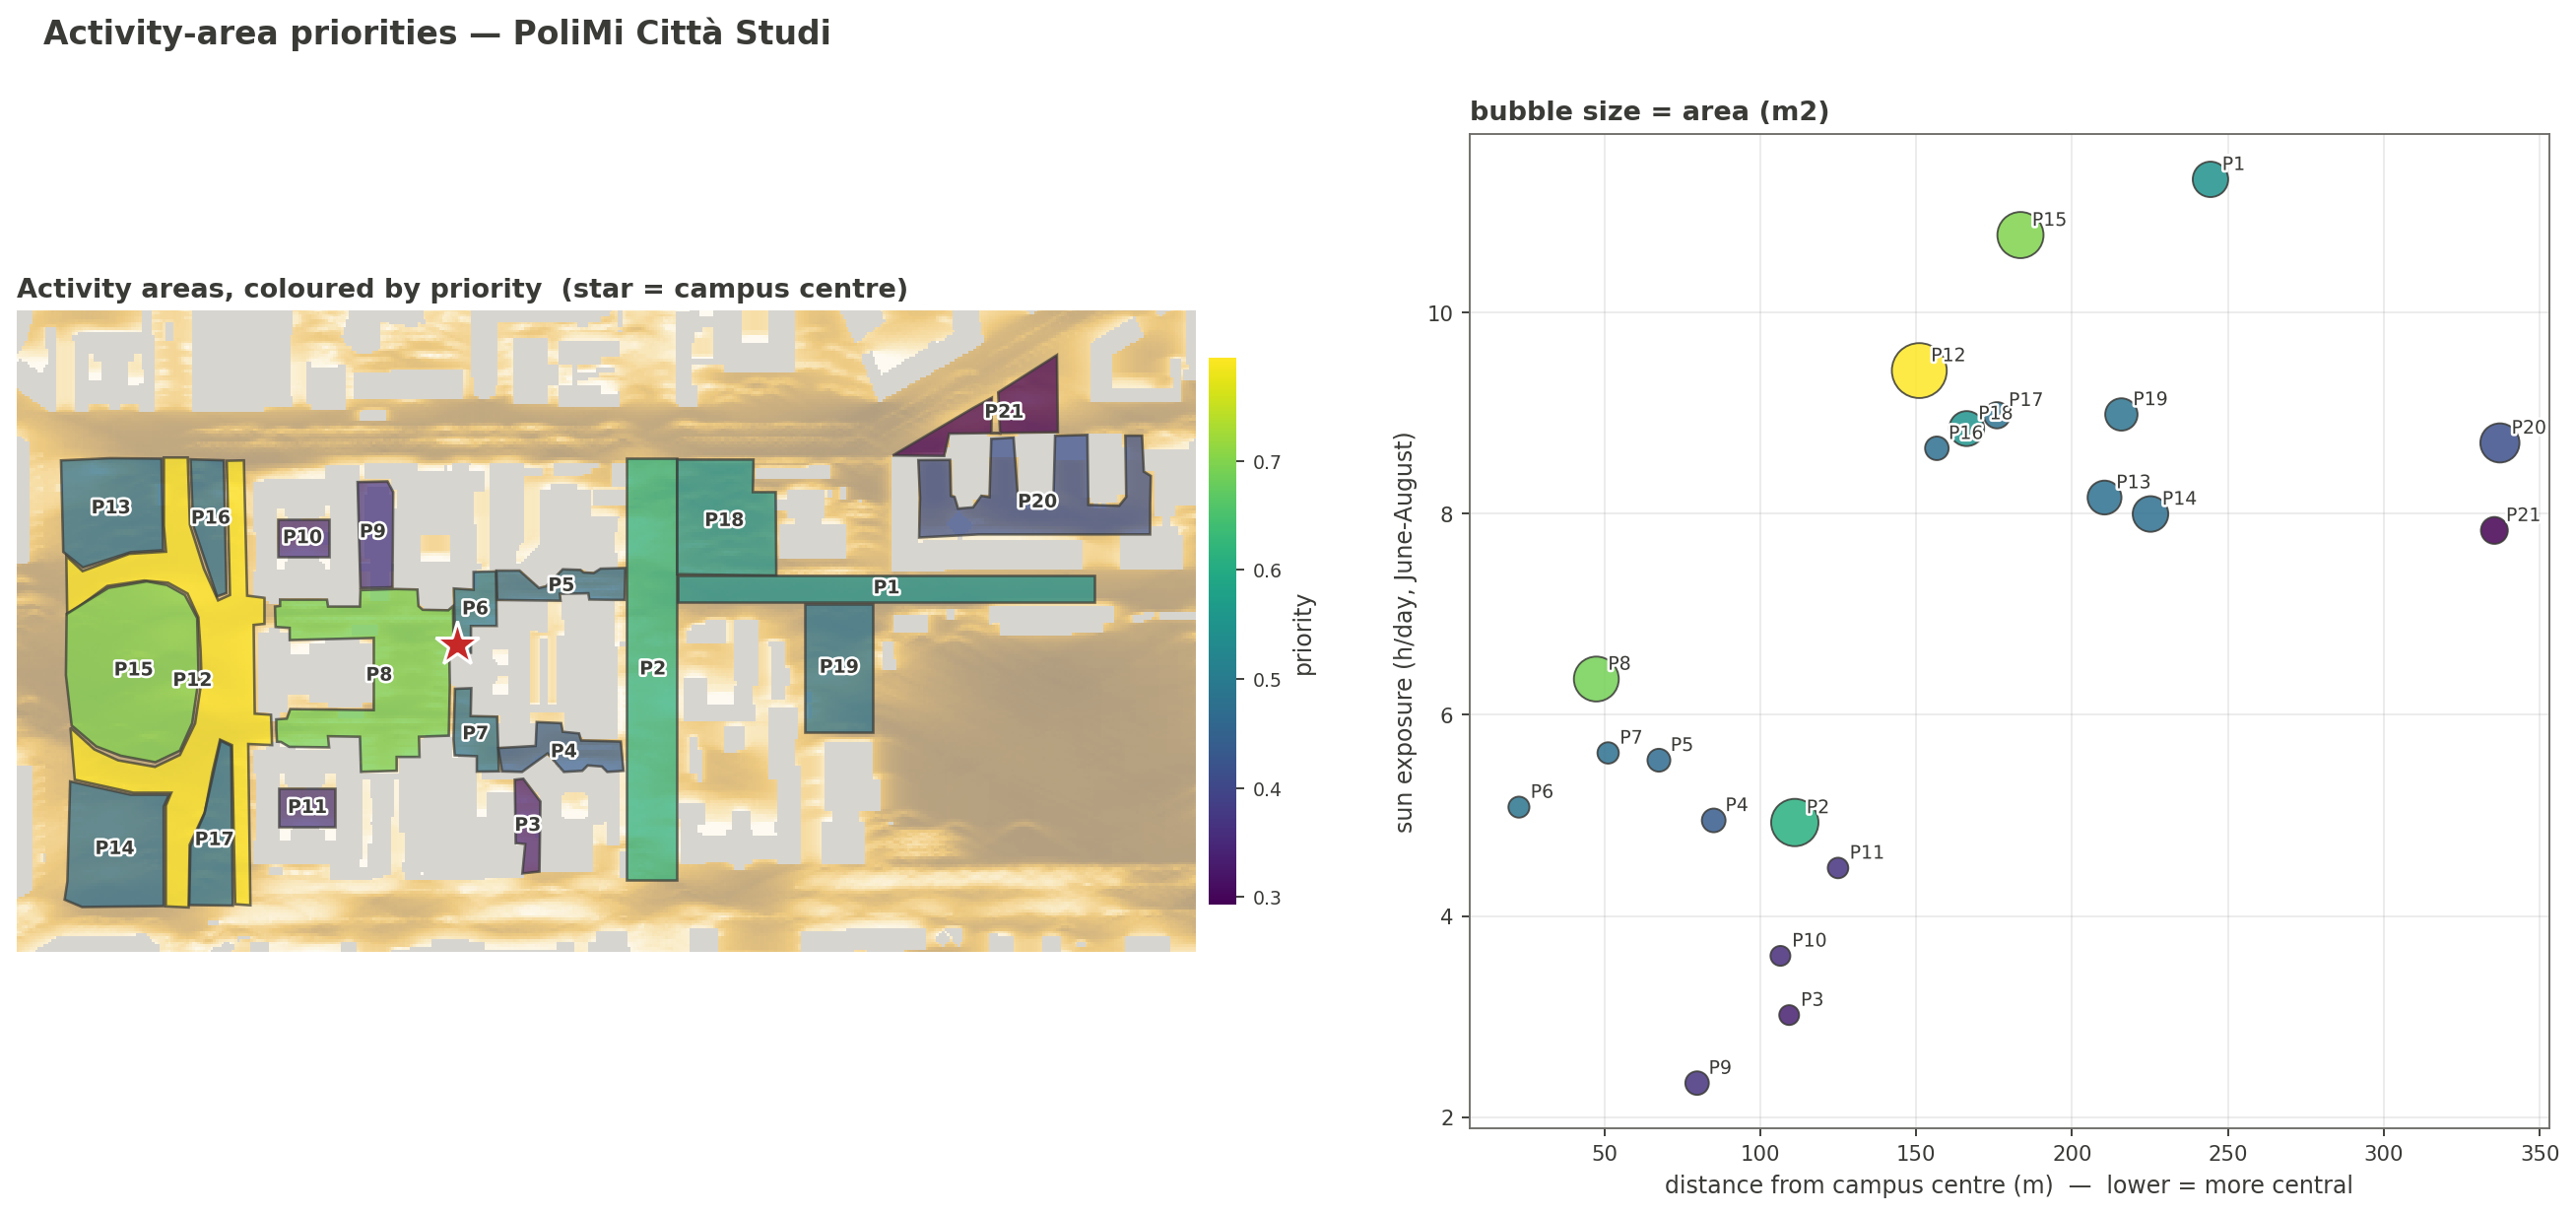
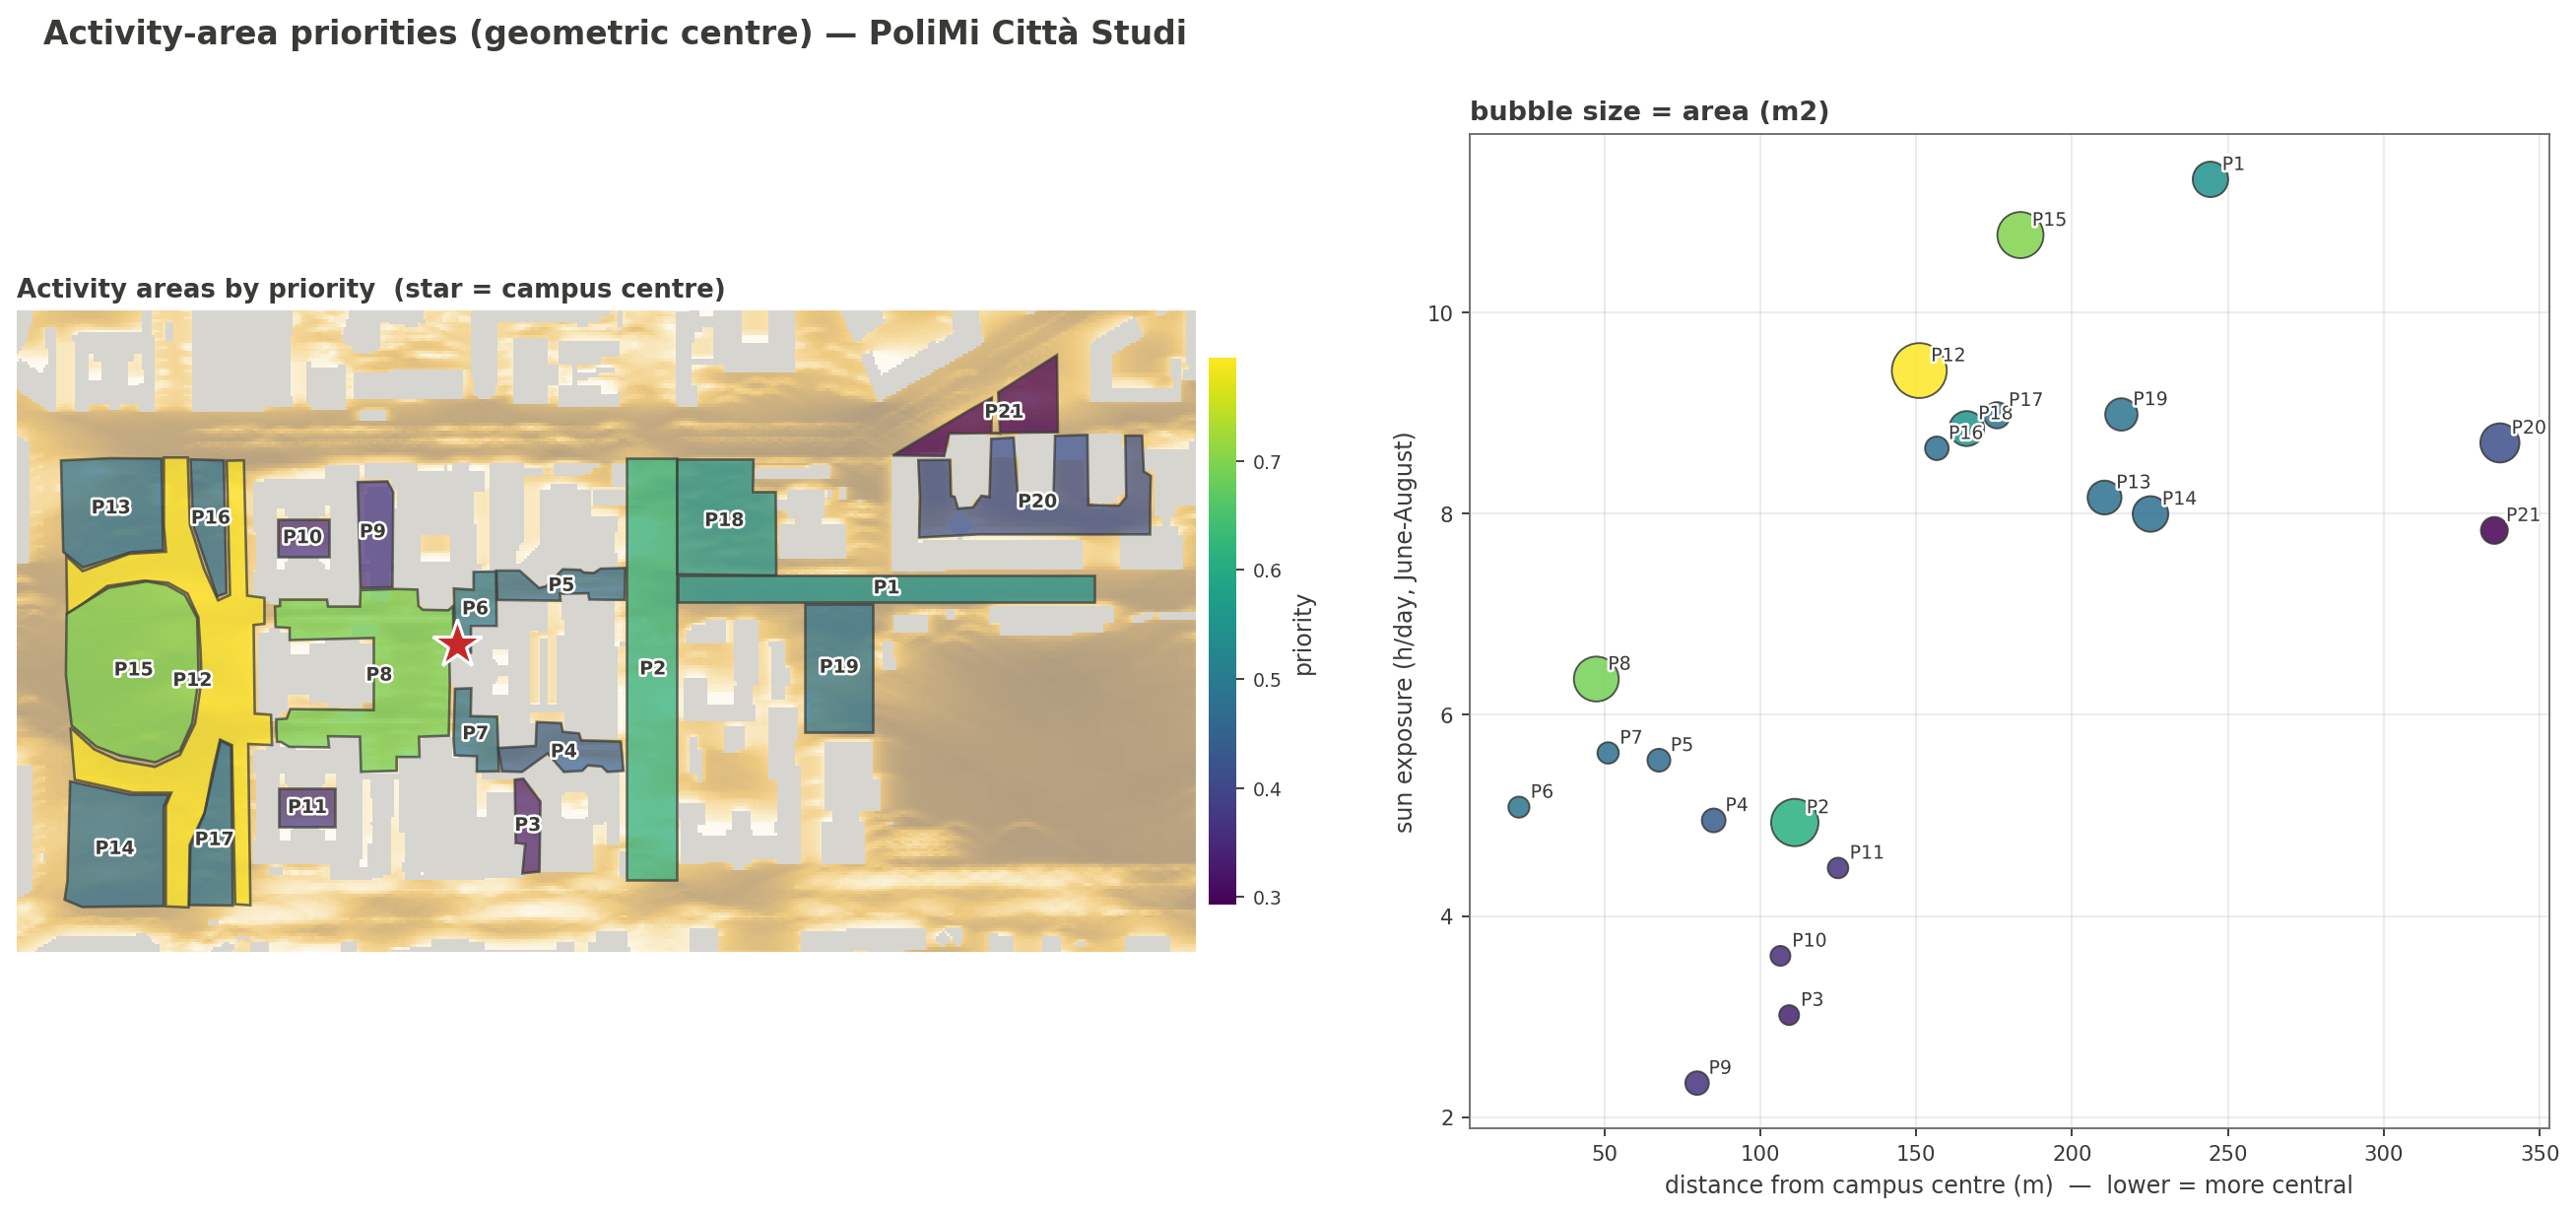
weighted path

Changed region(s): [[0.1859, 0.0, 0.4646, 0.0617], [0.0, 0.2159, 0.3717, 0.2468]]

diff --git a/indicators.py b/indicators.py
@@ -181,6 +181,32 @@ def footprint_stats(R, xy_list):
             "shade_pct": 100.0 * float((h < SHADE_H).mean())}
 
 
+def flow_centroid():
+    """Centre of mass of the pedestrian arrival paths (route_flows), weighted
+    by person-distance (flow x length). If data/<campus>/flow_clip.geojson
+    exists, only path segments whose midpoint falls inside that polygon are
+    used, so distant approach corridors to the stations don't dominate.
+    Returns ((x, y), edges_used, n_total)."""
+    from matplotlib.path import Path
+    edges = json.load(open(FLOWS_FILE))["edges"]
+    n_total = len(edges)
+    clip_path = os.path.join(DATA_DIR, "flow_clip.geojson")
+    if os.path.exists(clip_path):
+        ring = json.load(open(clip_path))["features"][0]["geometry"][
+            "coordinates"][0]
+        box = Path(np.array([to_xy(c[1], c[0]) for c in ring]))
+        edges = [e for e in edges if box.contains_point(
+            ((e["a"][0] + e["b"][0]) / 2, (e["a"][1] + e["b"][1]) / 2))]
+    nx = ny = den = 0.0
+    for e in edges:
+        (ax, ay), (bx, by) = e["a"], e["b"]
+        w = e["flow"] * e["len"]
+        nx += w * (ax + bx) / 2
+        ny += w * (ay + by) / 2
+        den += w
+    return (nx / den, ny / den), edges, n_total
+
+
 def rank_areas(base, areas, center):
     """Score each activity polygon by sun / area / centrality -> priority."""
     rows = []
@@ -291,6 +317,10 @@ def main():
                  for s, R in rasters.items()}
     union_m2 = float(union.sum()) * base.res ** 2
     ranking = rank_areas(base, areas, center)
+    flow_center, flow_edges, flow_n_total = flow_centroid()
+    ranking_flow = rank_areas(base, areas, flow_center)
+    geo_flow_gap = math.hypot(flow_center[0] - center[0],
+                              flow_center[1] - center[1])
 
     # ---- report ----------------------------------------------------------
     L = []
@@ -420,25 +450,54 @@ def main():
     L.append("")
 
     # per-polygon priority ranking
+    def ranking_table(rows, dist_label):
+        out = [f"| # | area (m2) | sun exposure (h/day) | {dist_label} | "
+               "priority |", "|---|---|---|---|---|"]
+        for r in rows:
+            out.append(f"| P{r['id']} | {r['area']:,.0f} | {r['sun']:.1f} | "
+                       f"{r['dist']:.0f} | {r['priority']:.2f} |")
+        return out
+
     L.append("## Which activity areas matter most\n")
     L.append("Each mapped polygon is scored on three axes to steer where to "
              "look next: **sun exposure** (baseline June-August sun, h/day — "
              "higher = more need for shade), **area** (m2 — larger = more people "
-             "served), and **centrality** (distance from the activity-area "
-             "centre — closer = more used). Priority is the equal-weight mean of "
+             "served), and **centrality**. Priority is the equal-weight mean of "
              "the three, each normalised 0-1 across polygons (centrality = "
-             "1 - dist/max). Sorted most-important first; IDs match "
-             "`activity_areas.png`.\n")
-    L.append("| # | area (m2) | sun exposure (h/day) | dist. from centre (m) | "
-             "priority |")
-    L.append("|---|---|---|---|---|")
-    for r in ranking:
-        L.append(f"| P{r['id']} | {r['area']:,.0f} | {r['sun']:.1f} | "
-                 f"{r['dist']:.0f} | {r['priority']:.2f} |")
+             "1 - dist/max). Centrality is reported two ways; IDs match the "
+             "figures.\n")
+
+    L.append("### Centrality = distance from the geometric activity centre\n")
+    L.append("Distance from the area-weighted centroid of all activity "
+             "polygons. Map + scatter: `activity_areas.png`.\n")
+    L += ranking_table(ranking, "dist. from centre (m)")
     L.append("")
-    top = ", ".join(f"P{r['id']}" for r in ranking[:3])
-    L.append(f"Top priorities: **{top}** — large, central and sun-exposed. See "
-             "`activity_areas.png` (map + scatter) for the spatial picture.\n")
+    L.append(f"Top priorities: **{', '.join('P'+str(r['id']) for r in ranking[:3])}**.\n")
+
+    L.append("### Centrality = distance from the pedestrian-path centroid\n")
+    L.append("Here centrality uses **how people actually move**: the "
+             "flow-weighted centroid (person-distance) of the PT-to-campus "
+             "walking paths (`route_flows`), **clipped to a campus-scale box** "
+             f"so distant approach corridors to the stations don't dominate "
+             f"({len(flow_edges):,} of {flow_n_total:,} path segments fall "
+             f"inside the box). It sits ~{geo_flow_gap:.0f} m from the geometric "
+             "centre; areas on the main internal circulation score as more "
+             "central. Map (with the clipped flow paths) + scatter: "
+             "`activity_areas_flow.png`.\n")
+    L += ranking_table(ranking_flow, "dist. from path centroid (m)")
+    L.append("")
+    tf = ", ".join(f"P{r['id']}" for r in ranking_flow[:3])
+    tg = ", ".join(f"P{r['id']}" for r in ranking[:3])
+    if [r["id"] for r in ranking_flow[:3]] == [r["id"] for r in ranking[:3]]:
+        L.append(f"Top priorities by pedestrian-path centrality: **{tf}** — the "
+                 "same top three as by geometric centre (the clipped path "
+                 "centroid sits close to it), a reassuring cross-check; the "
+                 "mid-table order does shift with proximity to the walked "
+                 "corridors.\n")
+    else:
+        L.append(f"Top priorities by pedestrian-path centrality: **{tf}** "
+                 f"(vs {tg} by geometric centre) — the path-based view "
+                 "reweights toward the areas people actually walk through.\n")
 
     L.append(COST_BASIS)
 
@@ -450,7 +509,11 @@ def main():
 
     points_figure(base, pt_scn, pt_ras, cb)
     curve_figure(cb)
-    activity_figure(base, ranking, center)
+    activity_figure(base, ranking, center, "activity_areas.png",
+                    "Activity-area priorities (geometric centre)")
+    activity_figure(base, ranking_flow, flow_center, "activity_areas_flow.png",
+                    "Activity-area priorities (pedestrian-path centre)",
+                    flow_edges=flow_edges)
 
 
 COST_BASIS = """## Cost basis (economic estimation — sources)
@@ -613,11 +676,12 @@ def curve_figure(cb):
     print(f"wrote {OUT_DIR}/cost_benefit.png")
 
 
-def activity_figure(base, ranking, center):
+def activity_figure(base, ranking, center, fname, title, flow_edges=None):
     import matplotlib
     matplotlib.use("Agg")
     import matplotlib.pyplot as plt
     import matplotlib.patheffects as pe
+    from matplotlib.collections import LineCollection
     from matplotlib.colors import (LinearSegmentedColormap, to_rgba, Normalize)
     from matplotlib.patches import Polygon as MplPoly
     from render_map import SUN_RAMP, INK, MUTED, BUILDING_FILL
@@ -629,8 +693,10 @@ def activity_figure(base, ranking, center):
     halo = [pe.withStroke(linewidth=2.2, foreground="white")]
 
     allxy = np.vstack([r["xy"] for r in ranking])
-    x0, x1 = allxy[:, 0].min() - 25, allxy[:, 0].max() + 25
-    y0, y1 = allxy[:, 1].min() - 25, allxy[:, 1].max() + 25
+    x0 = min(allxy[:, 0].min(), center[0]) - 25
+    x1 = max(allxy[:, 0].max(), center[0]) + 25
+    y0 = min(allxy[:, 1].min(), center[1]) - 25
+    y1 = max(allxy[:, 1].max(), center[1]) + 25
 
     fig, (axm, axs) = plt.subplots(1, 2, figsize=(15.5, 7.2), dpi=170,
                                    gridspec_kw={"width_ratios": [1.3, 1]})
@@ -648,20 +714,30 @@ def activity_figure(base, ranking, center):
         axm.annotate(f"P{r['id']}", r["cxy"], ha="center", va="center",
                      fontsize=8, fontweight="bold", color=INK, zorder=5,
                      path_effects=halo)
-    axm.plot(center[0], center[1], "*", ms=20, color="#c62828", mec="white",
+    star_lbl = "path centroid" if flow_edges else "campus centre"
+    if flow_edges:                              # overlay the pedestrian paths
+        fmax = max(e["flow"] for e in flow_edges) or 1.0
+        segs = [[tuple(e["a"]), tuple(e["b"])] for e in flow_edges]
+        lws = [0.2 + 2.4 * e["flow"] / fmax for e in flow_edges]
+        axm.add_collection(LineCollection(segs, colors="#1f4e79", linewidths=lws,
+                                          alpha=0.35, zorder=4))
+    axm.plot(center[0], center[1], "*", ms=22, color="#c62828", mec="white",
              mew=1.3, zorder=6)
     axm.set_xlim(x0, x1); axm.set_ylim(y0, y1); axm.set_aspect("equal")
     axm.set_xticks([]); axm.set_yticks([])
     for sp in axm.spines.values():
         sp.set_visible(False)
-    axm.set_title("Activity areas, coloured by priority  (star = campus centre)",
-                  fontsize=11.5, color=INK, loc="left", fontweight="bold")
+    axm.set_title(f"Activity areas by priority  (star = {star_lbl}"
+                  f"{'; lines = pedestrian paths' if flow_edges else ''})",
+                  fontsize=11, color=INK, loc="left", fontweight="bold")
     sm = plt.cm.ScalarMappable(cmap=pri, norm=norm)
     cbar = fig.colorbar(sm, ax=axm, shrink=0.55, pad=0.01)
     cbar.set_label("priority", fontsize=10, color=INK)
     cbar.ax.tick_params(labelsize=8, colors=INK)
     cbar.outline.set_visible(False)
 
+    xlab = ("distance from path centroid (m)" if flow_edges else
+            "distance from campus centre (m)") + "  —  lower = more central"
     sizes = [40 + 0.055 * r["area"] for r in ranking]
     axs.scatter([r["dist"] for r in ranking], [r["sun"] for r in ranking],
                 s=sizes, c=pv, cmap=pri, norm=norm, edgecolor=INK, lw=0.8,
@@ -670,8 +746,7 @@ def activity_figure(base, ranking, center):
         axs.annotate(f"P{r['id']}", (r["dist"], r["sun"]), xytext=(5, 4),
                      textcoords="offset points", fontsize=8, color=INK,
                      path_effects=halo)
-    axs.set_xlabel("distance from campus centre (m)  —  lower = more central",
-                   fontsize=10, color=INK)
+    axs.set_xlabel(xlab, fontsize=10, color=INK)
     axs.set_ylabel("sun exposure (h/day, June-August)", fontsize=10, color=INK)
     axs.set_title("bubble size = area (m2)", fontsize=11.5, color=INK,
                   loc="left", fontweight="bold")
@@ -680,12 +755,11 @@ def activity_figure(base, ranking, center):
         sp.set_color(MUTED)
     axs.tick_params(colors=INK, labelsize=9)
 
-    fig.suptitle(f"Activity-area priorities — {CFG['label']}", fontsize=14,
-                 x=0.02, y=1.0, ha="left", fontweight="bold", color=INK)
+    fig.suptitle(f"{title} — {CFG['label']}", fontsize=14, x=0.02, y=1.0,
+                 ha="left", fontweight="bold", color=INK)
     fig.tight_layout()
-    fig.savefig(f"{OUT_DIR}/activity_areas.png", bbox_inches="tight",
-                facecolor="white")
-    print(f"wrote {OUT_DIR}/activity_areas.png")
+    fig.savefig(f"{OUT_DIR}/{fname}", bbox_inches="tight", facecolor="white")
+    print(f"wrote {OUT_DIR}/{fname}")
 
 
 if __name__ == "__main__":

diff --git a/output/leonardo/indicators.md b/output/leonardo/indicators.md
@@ -96,7 +96,11 @@ The whole-campus averages above dilute the interventions across a large mostly-e
 
 ## Which activity areas matter most
 
-Each mapped polygon is scored on three axes to steer where to look next: **sun exposure** (baseline June-August sun, h/day — higher = more need for shade), **area** (m2 — larger = more people served), and **centrality** (distance from the activity-area centre — closer = more used). Priority is the equal-weight mean of the three, each normalised 0-1 across polygons (centrality = 1 - dist/max). Sorted most-important first; IDs match `activity_areas.png`.
+Each mapped polygon is scored on three axes to steer where to look next: **sun exposure** (baseline June-August sun, h/day — higher = more need for shade), **area** (m2 — larger = more people served), and **centrality**. Priority is the equal-weight mean of the three, each normalised 0-1 across polygons (centrality = 1 - dist/max). Centrality is reported two ways; IDs match the figures.
+
+### Centrality = distance from the geometric activity centre
+
+Distance from the area-weighted centroid of all activity polygons. Map + scatter: `activity_areas.png`.
 
 | # | area (m2) | sun exposure (h/day) | dist. from centre (m) | priority |
 |---|---|---|---|---|
@@ -122,7 +126,37 @@ Each mapped polygon is scored on three axes to steer where to look next: **sun e
 | P3 | 598 | 3.0 | 109 | 0.34 |
 | P21 | 1,707 | 7.8 | 335 | 0.29 |
 
-Top priorities: **P12, P15, P8** — large, central and sun-exposed. See `activity_areas.png` (map + scatter) for the spatial picture.
+Top priorities: **P12, P15, P8**.
+
+### Centrality = distance from the pedestrian-path centroid
+
+Here centrality uses **how people actually move**: the flow-weighted centroid (person-distance) of the PT-to-campus walking paths (`route_flows`), **clipped to a campus-scale box** so distant approach corridors to the stations don't dominate (1,656 of 3,800 path segments fall inside the box). It sits ~74 m from the geometric centre; areas on the main internal circulation score as more central. Map (with the clipped flow paths) + scatter: `activity_areas_flow.png`.
+
+| # | area (m2) | sun exposure (h/day) | dist. from path centroid (m) | priority |
+|---|---|---|---|---|
+| P12 | 9,407 | 9.4 | 191 | 0.74 |
+| P15 | 6,434 | 10.8 | 218 | 0.64 |
+| P8 | 6,045 | 6.4 | 108 | 0.62 |
+| P2 | 6,803 | 4.9 | 126 | 0.58 |
+| P18 | 3,394 | 8.8 | 133 | 0.57 |
+| P1 | 3,497 | 11.3 | 228 | 0.55 |
+| P5 | 1,031 | 5.5 | 56 | 0.47 |
+| P19 | 2,788 | 9.0 | 215 | 0.47 |
+| P16 | 1,144 | 8.7 | 157 | 0.46 |
+| P13 | 3,133 | 8.2 | 213 | 0.45 |
+| P6 | 758 | 5.1 | 52 | 0.45 |
+| P20 | 4,428 | 8.7 | 310 | 0.41 |
+| P17 | 1,593 | 9.0 | 239 | 0.40 |
+| P7 | 805 | 5.6 | 122 | 0.40 |
+| P14 | 3,535 | 8.0 | 282 | 0.39 |
+| P9 | 1,135 | 2.3 | 66 | 0.37 |
+| P4 | 1,164 | 5.0 | 139 | 0.37 |
+| P10 | 602 | 3.6 | 106 | 0.35 |
+| P21 | 1,707 | 7.8 | 297 | 0.30 |
+| P11 | 693 | 4.5 | 193 | 0.28 |
+| P3 | 598 | 3.0 | 175 | 0.25 |
+
+Top priorities by pedestrian-path centrality: **P12, P15, P8** — the same top three as by geometric centre (the clipped path centroid sits close to it), a reassuring cross-check; the mid-table order does shift with proximity to the walked corridors.
 
 ## Cost basis (economic estimation — sources)
 

diff --git a/README.md b/README.md
@@ -74,10 +74,19 @@ the whole-campus averages dilute small interventions, the campus indicators are
 *also* computed over the union of hand-mapped walkable / dwell polygons
 (`data/<campus>/areas.geojson`, ~59,000 m² — the global figures are kept too).
 Each polygon is then scored on **sun exposure** (baseline JJA h/day), **area**,
-and **centrality** (distance from the activity-area centroid) into an
-equal-weight **priority** (0–1), to point future work at the areas that matter
-most. Output: a ranking table in `indicators.md` plus `activity_areas.png` (map
-coloured by priority + a sun-vs-centrality bubble chart, bubble size = area).
+and **centrality**, into an equal-weight **priority** (0–1), to point future
+work at the areas that matter most. Centrality is computed **two ways**: (1)
+distance from the geometric activity centroid, and (2) distance from the
+**pedestrian-path centroid** — the flow-weighted centre of mass of the
+PT→campus walking paths (`route_flows`), **clipped to a campus-scale box**
+(`data/<campus>/flow_clip.geojson`) so the long approach corridors to the
+stations don't drag it off-campus. This rewards areas on the main internal
+circulation; with the clip it lands ~75 m from the geometric centre (so the two
+rankings largely agree — a useful cross-check).
+Output: two ranking tables in `indicators.md` plus `activity_areas.png`
+(geometric) and `activity_areas_flow.png` (path-based, with the pedestrian
+network overlaid) — each a priority-coloured map + a sun-vs-centrality bubble
+chart (bubble size = area).
 
 **Per-point cost-benefit (steps 12–14, the focus):** `point_studies.py` reads
 hand-drawn shading footprints from `data/<campus>/placements.geojson` (one